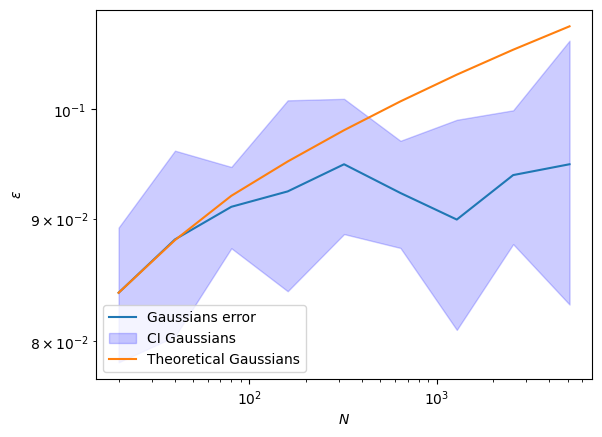
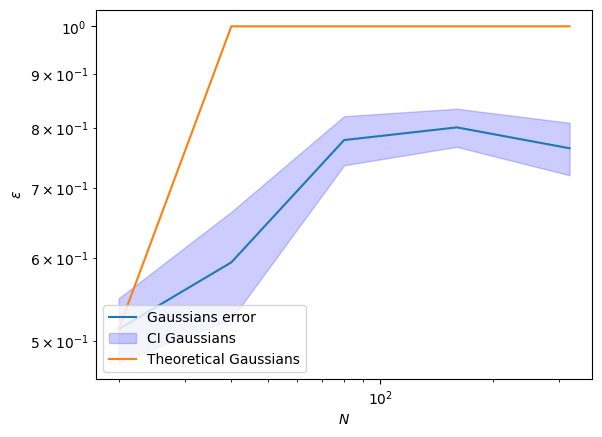
Updated images

diff --git a/gEDMDtests/gEDMD_Dictionary_Limit_All.py b/gEDMDtests/gEDMD_Dictionary_Limit_All.py
@@ -22,9 +22,9 @@ import d3s.systems as systems
 plt.ion()
 M_exact = 100000
 M_approx = 10000
-min_number_of_observables = 20
-boxes1 = 50
-boxes2 = 25
+min_number_of_observables = 2
+boxes1 = 20
+boxes2 = 10
 boxes = np.array([boxes1, boxes2])
 max_number_of_observables = boxes1 * boxes2
 
@@ -67,7 +67,8 @@ gedmd_helper.plot_errors_dictionary_limit(
     M_approx=M_approx,
     prob=0.5,
     #title='Simple deterministic system gEDMD',
-    path='ODE')
+    #path='ODE'
+)
 
 
 # ########################################

diff --git a/gEDMDtests/gEDMD_Data_Limit_All.py b/gEDMDtests/gEDMD_Data_Limit_All.py
@@ -22,7 +22,7 @@ import d3s.systems as systems
 plt.ion()
 # Constants
 M = 1000000
-number_of_runs = 20
+number_of_runs = 50
 number_of_batches = 10
 confidence_level = 0.95
 number_of_monomials = 8
